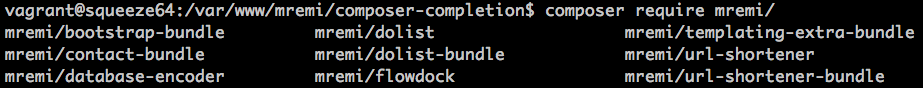
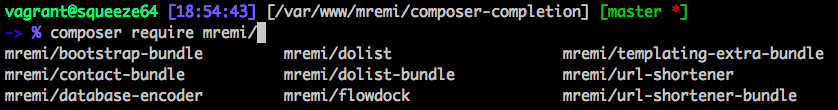
Added support for zsh

diff --git a/README.md b/README.md
@@ -3,43 +3,54 @@ Composer-Completion library
 
 This library allows you to complete the composer command with some packages.
 
-For now, only bash is supported. You need to install `bash-completion`.
+Both Bash (requires `bash-completion`) and Zsh are supported.
 
 **Basic Docs**
 
-* [Installation](#installation)
+* [Common installation](#common-installation)
+* [Bash installation](#bash-installation)
+* [Zsh installation](#zsh-installation)
 * [Usage](#usage)
 * [Contribution](#contribution)
 
-<a name="installation"></a>
+<a name="common-installation"></a>
 
-## Installation
+## Common installation
 
-Only 4 steps:
+The two following steps are needed both for the installation with Bash and Zsh.
 
 ### 1. Clone Composer-Completion using Git
 
 ```bash
 $ git clone git@github.com:mremi/composer-completion.git
-$ cd composer-completion
 ```
 
 ### 2. Install the dependencies using Composer
 
-``` bash
+```bash
+$ cd composer-completion
 $ composer install
 ```
 
-### 3. Copy bin/bash/composer in /etc/bash_completion.d/composer
+<a name="bash-installation"></a>
+
+## Bash installation
+
+### 1. Copy bin/bash/composer in /etc/bash_completion.d/composer
 
 ```bash
 $ sudo cp bin/bash/composer /etc/bash_completion.d/composer
 ```
 
 Then edit `/etc/bash_completion.d/composer` and replace `__(mremi/composer-completion)__`
-by the path where you have installed this library.
+by the path where you have installed this library or just execute something
+like (guess `/var/www/composer-completion` is the install directory):
 
-### 4. Add the following lines to your ~/.bashrc or ~/.bash_profile:
+```bash
+$ sudo sed -i 's,__(mremi/composer-completion)__,/var/www/composer-completion,' /etc/bash_completion.d/composer
+```
+
+### 2. Add the following lines to your ~/.bashrc or ~/.bash_profile:
 
 ```bash
 if [ -e /etc/bash_completion.d/composer ]; then
@@ -48,6 +59,24 @@ fi
 ```
 
 Restart your bash and let's go!
+
+<a name="zsh-installation"></a>
+
+## Zsh installation
+
+### 1. Include the directory in your `$fpath`, for example by adding in `~/.zshrc`:
+
+```bash
+fpath=(path/to/composer-completion/bin/zsh $fpath)
+```
+
+### 2. You may have to force rebuild `zcompdump`:
+
+```bash
+$ rm -f ~/.zcompdump; compinit
+```
+
+Let's go!
 
 <a name="usage"></a>
 
